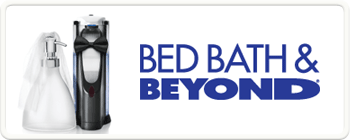
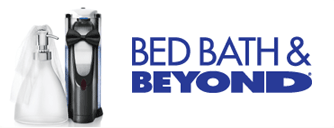
i think its good enough

Changed region(s): [[0.0, 0.0312, 1.0, 1.0], [0.3892, 0.2812, 0.9581, 0.75]]

diff --git a/app/assets/stylesheets/my_styles.css b/app/assets/stylesheets/my_styles.css
@@ -15,6 +15,9 @@ div.my-form {
 img.my-images {
 	margin-left: auto;
   margin-right: auto;
+  border: 1px solid;
+  border-radius: 5px;
+  padding: 10px 10px;
 }
 
 .white-background {
